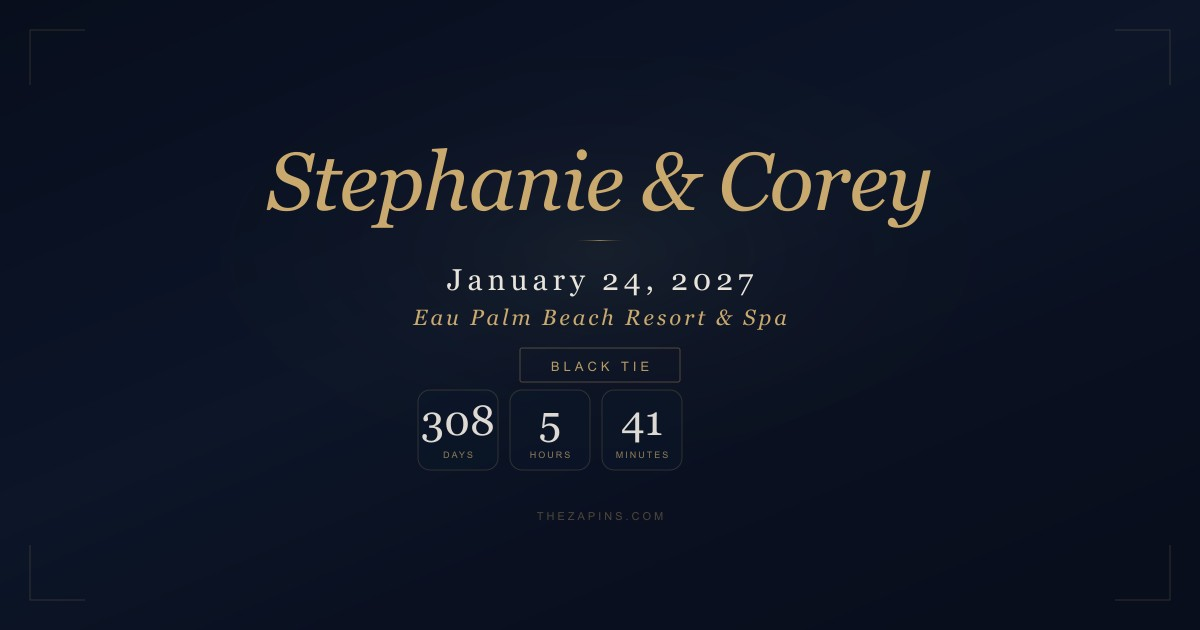
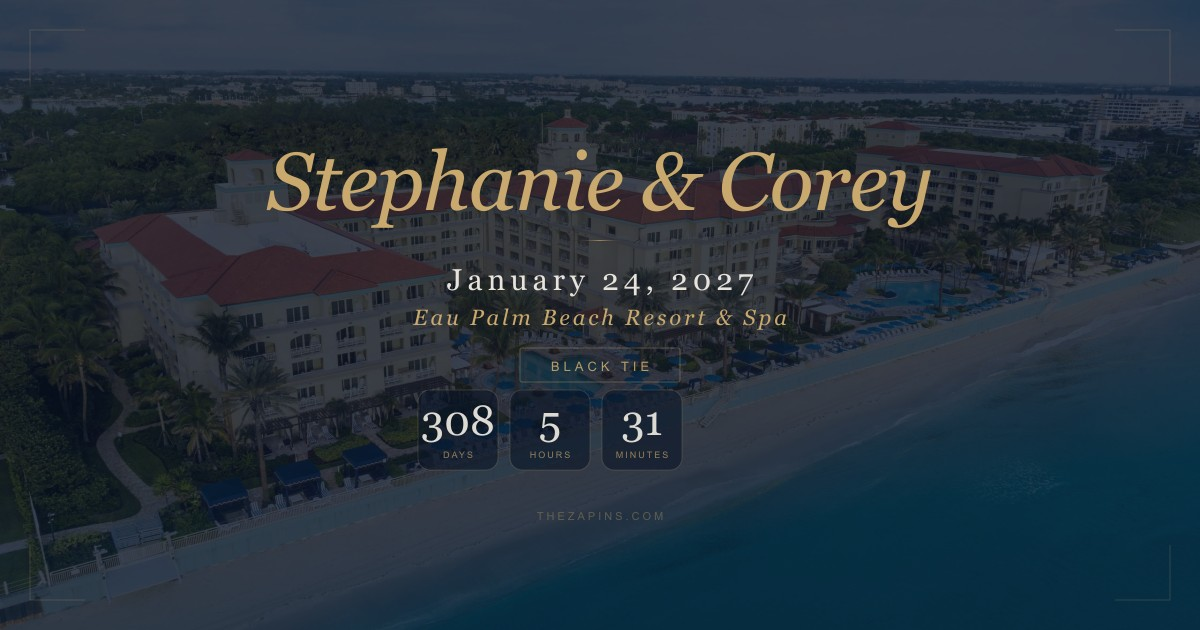
Add venue hero photo as OG image background
Composite venue-hero.webp behind the dark overlay + text elements
so the Eau resort is visible in link previews.

diff --git a/build.js b/build.js
@@ -56,7 +56,6 @@ function generateOgImage() {
         <stop offset="100%" stop-color="transparent"/>
       </linearGradient>
     </defs>
-    <rect width="1200" height="630" fill="url(#bg)"/>
     <rect width="1200" height="630" fill="url(#glow)"/>
     <path d="M30,85 L30,30 L85,30" fill="none" stroke="rgba(201,169,110,0.2)" stroke-width="1"/>
     <path d="M1115,30 L1170,30 L1170,85" fill="none" stroke="rgba(201,169,110,0.2)" stroke-width="1"/>
@@ -74,7 +73,20 @@ function generateOgImage() {
     <text x="600" y="520" text-anchor="middle" font-family="Arial, Helvetica, sans-serif" font-size="11" letter-spacing="3" fill="rgba(201,169,110,0.35)">THEZAPINS.COM</text>
   </svg>`;
 
-  return sharp(Buffer.from(svg)).jpeg({ quality: 90 }).toBuffer()
+  // Start with venue-hero background, resize to 1200x630, darken with overlay, then composite text SVG
+  const heroPath = path.join(__dirname, 'public', 'images', 'venue-hero.webp');
+  const overlayBuf = Buffer.from(
+    `<svg width="1200" height="630"><rect width="1200" height="630" fill="rgba(10,18,36,0.78)"/></svg>`
+  );
+
+  return sharp(heroPath)
+    .resize(1200, 630, { fit: 'cover', position: 'center' })
+    .composite([
+      { input: overlayBuf, blend: 'over' },
+      { input: Buffer.from(svg), blend: 'over' },
+    ])
+    .jpeg({ quality: 90 })
+    .toBuffer()
     .then(buf => {
       console.log(`OG image: ${days}d ${hours}h ${mins}m countdown`);
       return buf;
